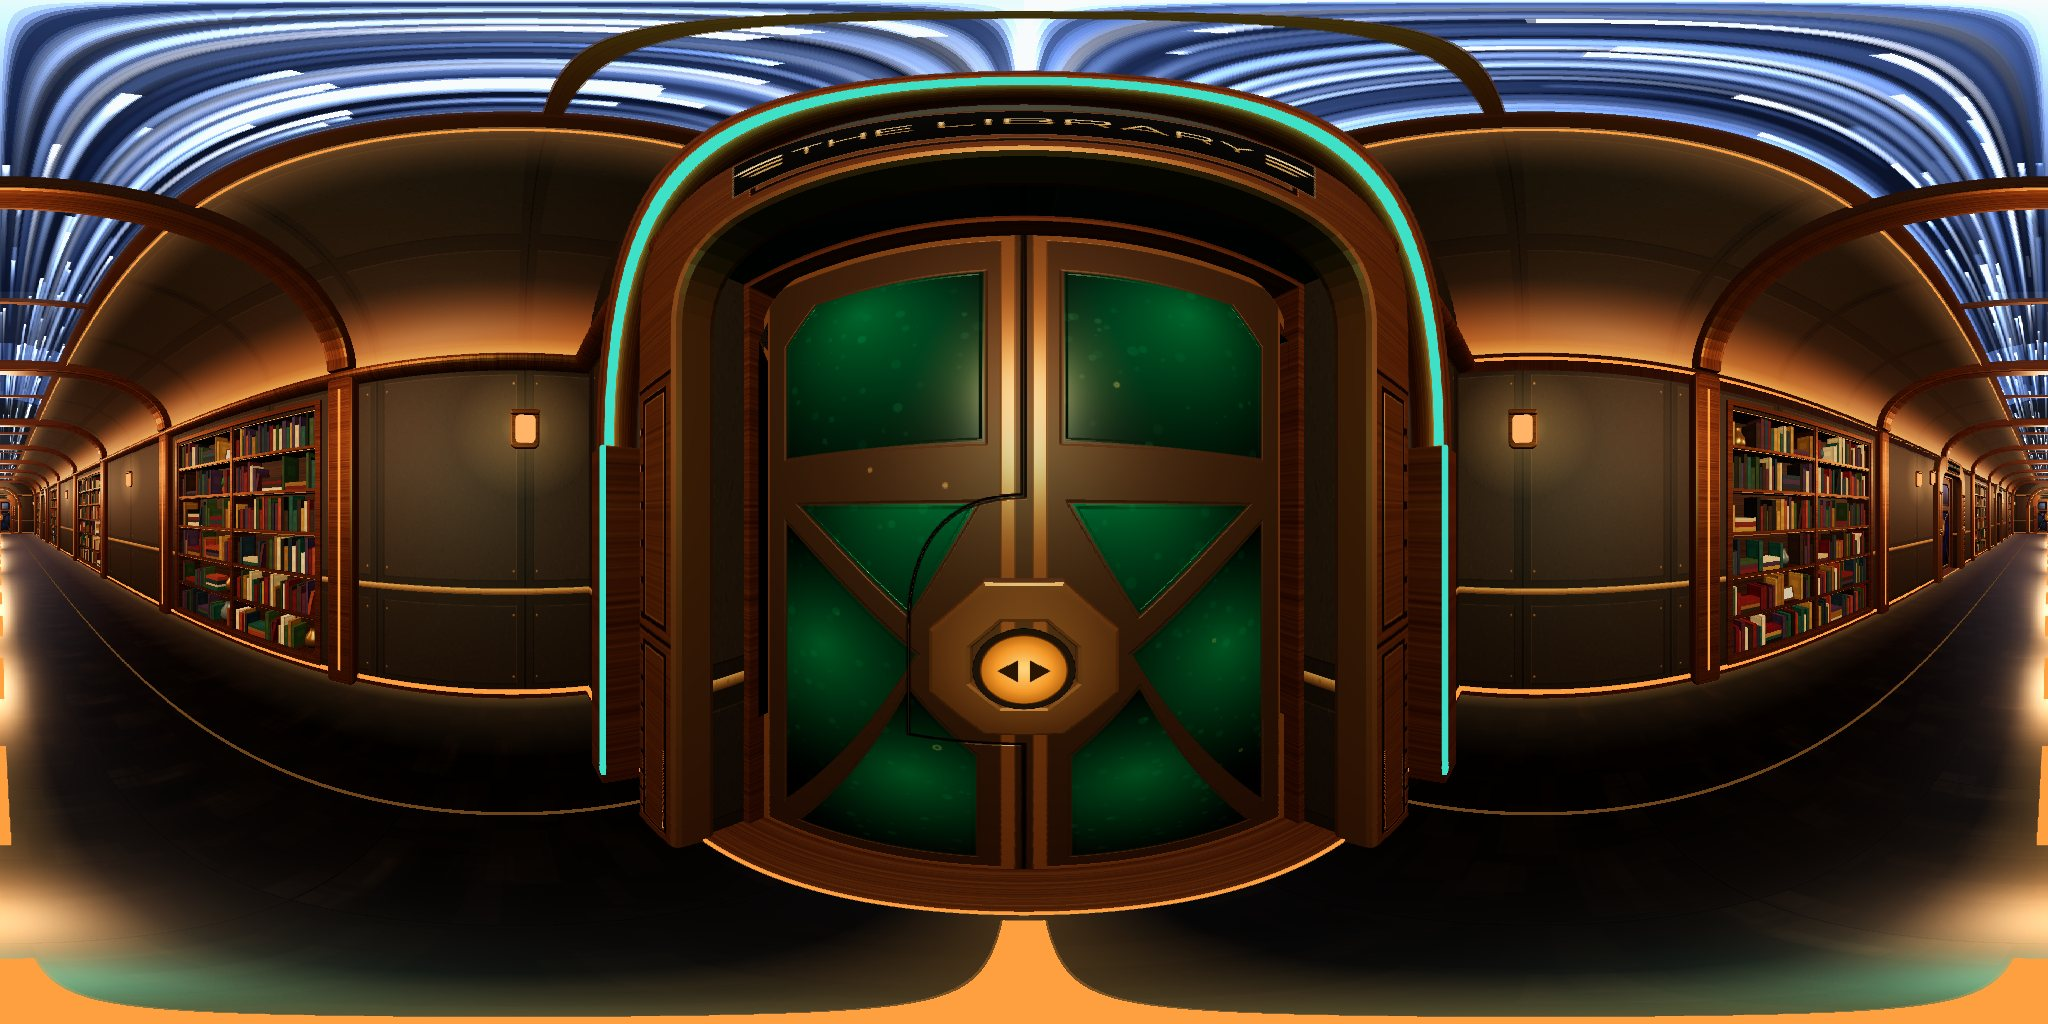
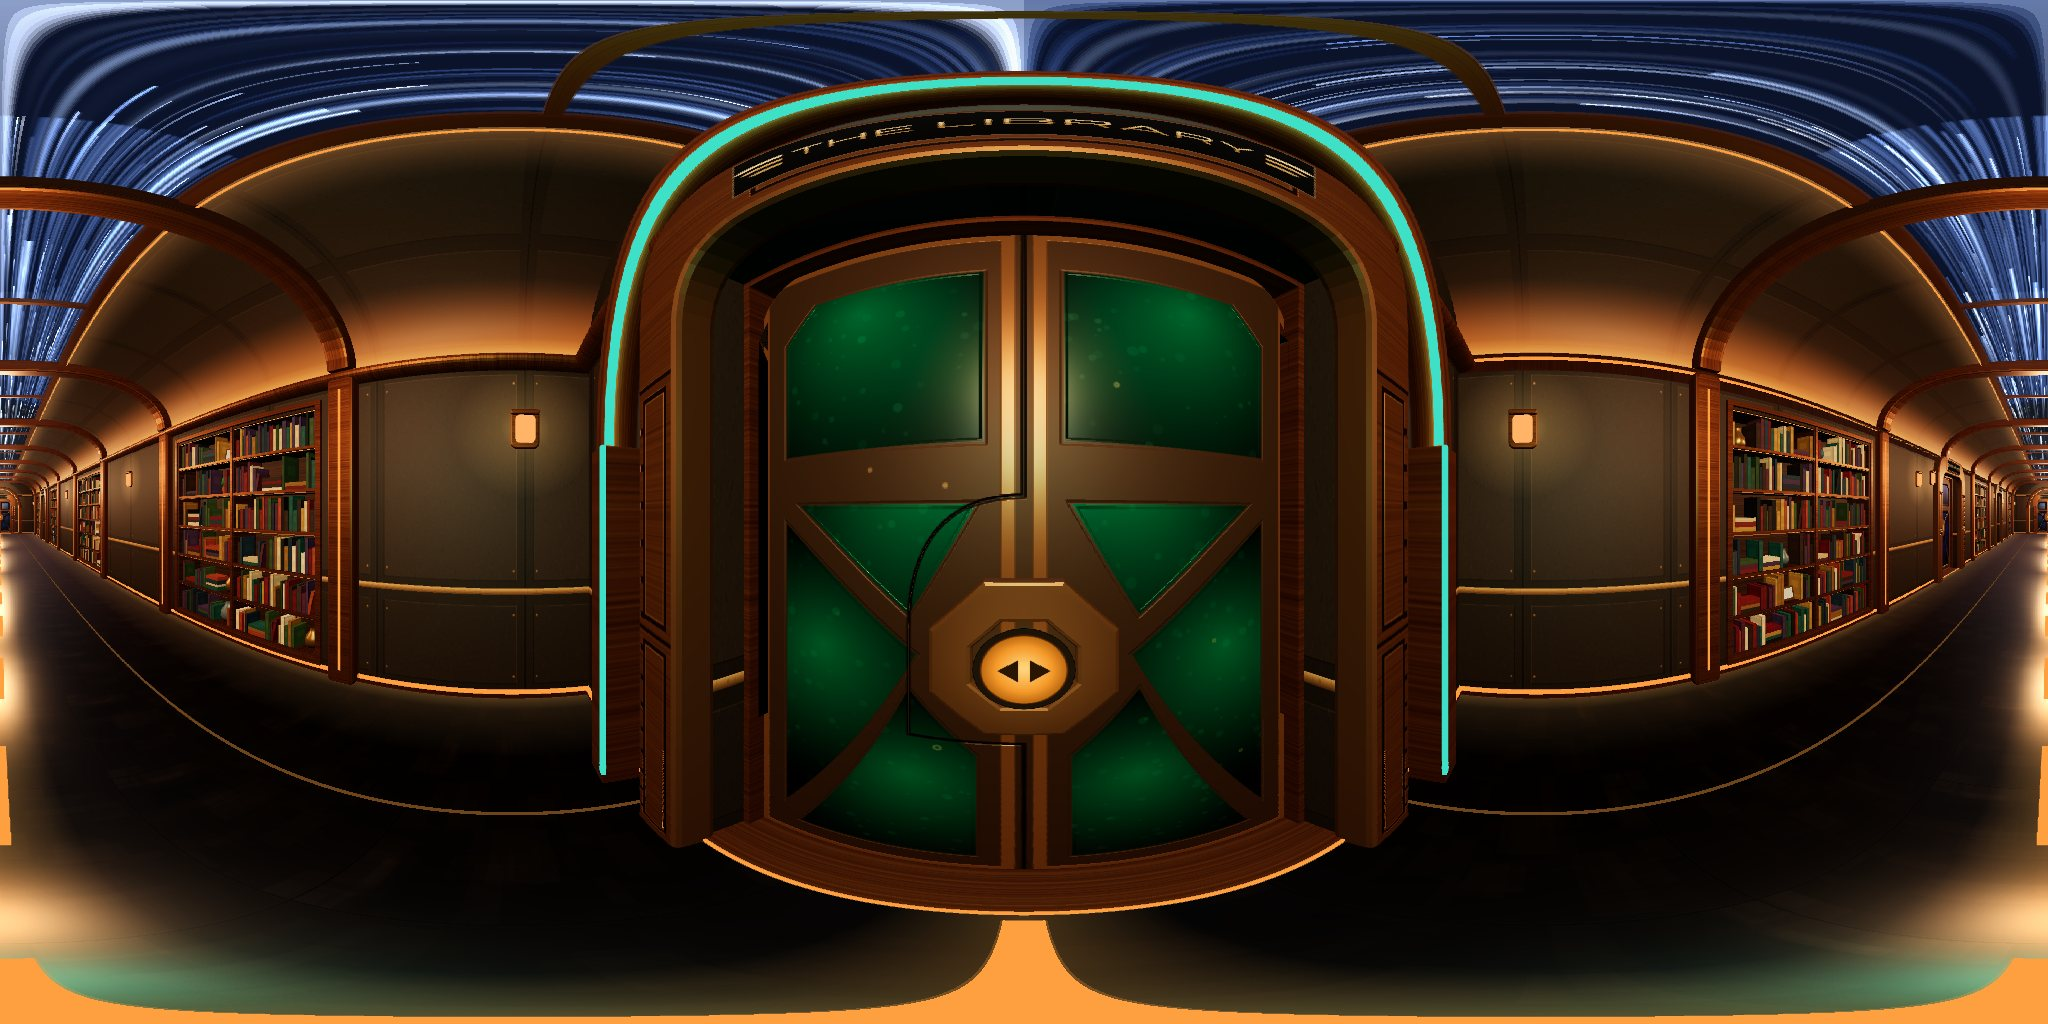
Light speed: soft round streak heads, capped widths, thin soft tunnel streaks (removes blocky glitch in the skylight)
Claude-Session: https://claude.ai/code/session_015swmRW9rk9HZt8JyLRwsXT

Changed region(s): [[0.0, 0.0, 1.0, 0.4375]]

diff --git a/hyperspace.js b/hyperspace.js
@@ -21,7 +21,7 @@
     for (var i = 0; i < N; i++) {
       var ang = (arc[0] + r() * (arc[1] - arc[0])) * Math.PI / 180, rad = (o.minR || 7) + Math.pow(r(), 1.5) * ((o.maxR || 187) - (o.minR || 7));
       var x = Math.sin(ang) * rad + cx0, y = Math.cos(ang) * rad + cy0, z = (r() - 0.5) * SPAN;
-      var len = 30 + r() * 160, wid = (0.15 + r() * 0.25 + rad * 0.012) * (o.width || 1), spd = 260 + r() * 340, hue = r();
+      var len = 30 + r() * 160, wid = (0.15 + r() * 0.25 + Math.min(rad * 0.012, 0.5)) * (o.width || 1), spd = 260 + r() * 340, hue = r();
       var c = hue < 0.7 ? [0.75, 0.85, 1.0] : hue < 0.9 ? [1, 1, 1] : [0.55, 0.7, 1.0], br = (0.5 + r() * 0.8) * (o.bright || 1);
       [[0, -1], [0, 1], [1, -1], [1, 1]].forEach(function (k, j) {
         var q = i * 4 + j; base.set([x, y, z], q * 3); corner.set(k, q * 2); info.set([len, wid, spd], q * 3); col.set([c[0] * br, c[1] * br, c[2] * br], q * 3);
@@ -39,7 +39,8 @@
         ' vec3 side = normalize(cross(ax, cameraPosition - wb));',
         ' vec3 p = wb + ax * (uFwd * aCorner.x * aInfo.x) + side * aCorner.y * aInfo.y;',      // head leads aft, tail trails toward the bow
         ' vC = aCorner; vCol = aCol; gl_Position = projectionMatrix * viewMatrix * vec4(p, 1.0); }'].join('\n'),
-      fragmentShader: 'varying vec2 vC; varying vec3 vCol; void main(){ float a = pow(1.0 - vC.x, 2.2) * (1.0 - vC.y * vC.y); a += smoothstep(0.06, 0.0, vC.x) * 1.5 * (1.0 - abs(vC.y)); gl_FragColor = vec4(vCol * a, 1.0); }' });
+      // soft round head + tapered body: the old head was a flat full-width bar, so wide far streaks showed as hard-edged blocks (user video, Nov 24)
+      fragmentShader: 'varying vec2 vC; varying vec3 vCol; void main(){ float y2 = vC.y * vC.y; float a = pow(1.0 - vC.x, 2.2) * smoothstep(0.0, 0.05, vC.x) * (1.0 - y2) * (1.0 - y2); a += 1.4 * pow(max(0.0, 1.0 - length(vec2(vC.x * 14.0, vC.y))), 2.0); gl_FragColor = vec4(vCol * a, 1.0); }' });
     var streaks = new THREE.Mesh(g, sm); streaks.frustumCulled = false; streaks.renderOrder = -9; root.add(streaks);
 
     // the tunnel: faint streaked walls far out, scrolling aft
@@ -47,9 +48,11 @@
     for (var k = 0; k < 420; k++) {
       var u = r() * 512, v = r() * 512, L = 60 + r() * 380, a = 0.12 + r() * 0.5, gr = x2.createLinearGradient(0, v, 0, v + L);
       gr.addColorStop(0, 'rgba(120,160,255,0)'); gr.addColorStop(1, 'rgba(180,210,255,' + a + ')');
-      var wpx = 1.5 + r() * 4.5; x2.fillStyle = gr; x2.fillRect(u, v, wpx, L); if (v + L > 512) x2.fillRect(u, v - 512, wpx, L);
+      var wpx = 0.6 + r() * 1.4; x2.fillStyle = gr;                      // thin, soft-sided (wide hard rects read as blocks overhead)
+      [[2.2, 0.25], [1.4, 0.45], [1, 1]].forEach(function (q) { x2.globalAlpha = q[1]; var ww = wpx * q[0], uu = u - (ww - wpx) / 2; x2.fillRect(uu, v, ww, L); if (v + L > 512) x2.fillRect(uu, v - 512, ww, L); });
+      x2.globalAlpha = 1;
     }
-    var tt = new THREE.CanvasTexture(c); tt.wrapS = tt.wrapT = THREE.RepeatWrapping; tt.repeat.set(3, 1.5);
+    var tt = new THREE.CanvasTexture(c); tt.wrapS = tt.wrapT = THREE.RepeatWrapping; tt.repeat.set(6, 1.5); tt.anisotropy = 4;
     var tun = new THREE.Mesh(new THREE.CylinderGeometry(260, 260, 1400, 48, 1, true), new THREE.MeshBasicMaterial({ map: tt, color: 0x9fc0ff, transparent: true, opacity: o.tunnel == null ? 0.85 : o.tunnel, blending: THREE.AdditiveBlending, depthWrite: false, side: THREE.BackSide, fog: false, toneMapped: false }));
     tun.rotation.x = fwd * Math.PI / 2; tun.renderOrder = -10; root.add(tun);   // texture v runs toward the bow; the bright end of each streak leads aft
     var haze = new THREE.Mesh(new THREE.CylinderGeometry(250, 250, 1400, 32, 1, true), new THREE.MeshBasicMaterial({ color: 0x0a1630, side: THREE.BackSide, fog: false, depthWrite: false }));

diff --git a/lounge.html b/lounge.html
@@ -15,13 +15,13 @@
   <meta property="og:image:height" content="630">
   <meta property="og:image:alt" content="The bronze SS Wayfarer in orbit above a sunlit planet.">
   <meta name="twitter:card" content="summary_large_image">
-  <script src="textures.js?v=20261124d"></script>
+  <script src="textures.js?v=20261124e"></script>
   <script src="https://aframe.io/releases/1.5.0/aframe.min.js"></script>
-  <script src="mobile.js?v=20261124d"></script>
-  <script src="door.js?v=20261124d"></script>
-  <script src="props.js?v=20261124d"></script>
-  <script src="hyperspace.js?v=20261124d"></script>
-  <script src="cats.js?v=20261124d"></script>
+  <script src="mobile.js?v=20261124e"></script>
+  <script src="door.js?v=20261124e"></script>
+  <script src="props.js?v=20261124e"></script>
+  <script src="hyperspace.js?v=20261124e"></script>
+  <script src="cats.js?v=20261124e"></script>
   <style>
     * { margin: 0; padding: 0; box-sizing: border-box; }
     body { overflow: hidden; background: #000; }

diff --git a/library.html b/library.html
@@ -18,13 +18,13 @@
   <meta name="theme-color" content="#000208">
   <meta name="apple-mobile-web-app-capable" content="yes">
   <meta name="mobile-web-app-capable" content="yes">
-  <script src="textures.js?v=20261124d"></script>
+  <script src="textures.js?v=20261124e"></script>
   <script src="https://aframe.io/releases/1.5.0/aframe.min.js"></script>
-  <script src="brain.js?v=20261124d"></script>
-  <script src="mobile.js?v=20261124d"></script>
-  <script src="door.js?v=20261124d"></script>
-  <script src="props.js?v=20261124d"></script>
-  <script src="hyperspace.js?v=20261124d"></script>
+  <script src="brain.js?v=20261124e"></script>
+  <script src="mobile.js?v=20261124e"></script>
+  <script src="door.js?v=20261124e"></script>
+  <script src="props.js?v=20261124e"></script>
+  <script src="hyperspace.js?v=20261124e"></script>
   <style>
     * { margin: 0; padding: 0; box-sizing: border-box; }
     body { overflow: hidden; background: #000; }

diff --git a/index.html b/index.html
@@ -15,11 +15,11 @@
   <meta property="og:image:height" content="630">
   <meta property="og:image:alt" content="The bronze SS Wayfarer in orbit above a sunlit planet.">
   <meta name="twitter:card" content="summary_large_image">
-  <script src="textures.js?v=20261124d"></script>
+  <script src="textures.js?v=20261124e"></script>
   <script src="https://aframe.io/releases/1.5.0/aframe.min.js"></script>
-  <script src="mobile.js?v=20261124d"></script>
-  <script src="door.js?v=20261124d"></script>
-  <script src="hyperspace.js?v=20261124d"></script>
+  <script src="mobile.js?v=20261124e"></script>
+  <script src="door.js?v=20261124e"></script>
+  <script src="hyperspace.js?v=20261124e"></script>
   <style>
     * { margin: 0; padding: 0; box-sizing: border-box; }
     body { overflow: hidden; background: #000; }

diff --git a/holodeck.html b/holodeck.html
@@ -26,12 +26,12 @@
     g.beginPath(); g.moveTo(0,0); g.lineTo(0,128); g.stroke();
     window.GRID_TEX = gc.toDataURL();
   </script>
-  <script src="textures.js?v=20261124d"></script>
+  <script src="textures.js?v=20261124e"></script>
   <script src="https://aframe.io/releases/1.5.0/aframe.min.js"></script>
-  <script src="mobile.js?v=20261124d"></script>
-  <script src="door.js?v=20261124d"></script>
-  <script src="props.js?v=20261124d"></script>
-  <script src="stargarden.js?v=20261124d"></script>
+  <script src="mobile.js?v=20261124e"></script>
+  <script src="door.js?v=20261124e"></script>
+  <script src="props.js?v=20261124e"></script>
+  <script src="stargarden.js?v=20261124e"></script>
   <style>
     * { margin:0; padding:0; box-sizing:border-box; }
     body { overflow:hidden; background:#000; }

diff --git a/bridge.html b/bridge.html
@@ -16,10 +16,10 @@
   <meta property="og:image:alt" content="The bronze SS Wayfarer in orbit above a sunlit planet.">
   <meta name="twitter:card" content="summary_large_image">
   <script src="https://aframe.io/releases/1.5.0/aframe.min.js"></script>
-  <script src="mobile.js?v=20261124d"></script>
-  <script src="door.js?v=20261124d"></script>
-  <script src="hyperspace.js?v=20261124d"></script>
-  <script src="lcars.js?v=20261124d"></script>
+  <script src="mobile.js?v=20261124e"></script>
+  <script src="door.js?v=20261124e"></script>
+  <script src="hyperspace.js?v=20261124e"></script>
+  <script src="lcars.js?v=20261124e"></script>
   <style>
     * { margin: 0; padding: 0; box-sizing: border-box; }
     body { overflow: hidden; background: #000; }

diff --git a/media.html b/media.html
@@ -16,9 +16,9 @@
   <meta property="og:image:alt" content="The bronze SS Wayfarer in orbit above a sunlit planet.">
   <meta name="twitter:card" content="summary_large_image">
   <script src="https://aframe.io/releases/1.5.0/aframe.min.js"></script>
-  <script src="mobile.js?v=20261124d"></script>
-  <script src="door.js?v=20261124d"></script>
-  <script src="props.js?v=20261124d"></script>
+  <script src="mobile.js?v=20261124e"></script>
+  <script src="door.js?v=20261124e"></script>
+  <script src="props.js?v=20261124e"></script>
   <style>
     * { margin: 0; padding: 0; box-sizing: border-box; }
     body { overflow: hidden; background: #000; }

diff --git a/hangar.html b/hangar.html
@@ -9,7 +9,7 @@
   <link rel="icon" href="/aspentrail/icons/favicon.ico">
   <script src="https://cdnjs.cloudflare.com/ajax/libs/three.js/r128/three.min.js"></script>
   <script src="https://cdn.jsdelivr.net/npm/three@0.128.0/examples/js/loaders/GLTFLoader.js"></script>
-  <script src="shipskin.js?v=20261124d"></script>
+  <script src="shipskin.js?v=20261124e"></script>
   <script src="https://cdn.jsdelivr.net/npm/three@0.128.0/examples/js/controls/OrbitControls.js"></script>
   <style>
     * { margin: 0; padding: 0; box-sizing: border-box; }

diff --git a/minigame.html b/minigame.html
@@ -17,7 +17,7 @@
   <meta name="twitter:card" content="summary_large_image">
   <script src="https://cdnjs.cloudflare.com/ajax/libs/three.js/r128/three.min.js"></script>
   <script src="https://cdn.jsdelivr.net/npm/three@0.128.0/examples/js/loaders/GLTFLoader.js"></script>
-  <script src="shipskin.js?v=20261124d"></script>
+  <script src="shipskin.js?v=20261124e"></script>
   <style>
     * { margin: 0; padding: 0; box-sizing: border-box; }
     body { overflow: hidden; background: #000; font-family: 'Courier New', monospace; }

diff --git a/CLAUDE.md b/CLAUDE.md
@@ -56,7 +56,7 @@ Rules drawn from them:
 - A-Frame 1.5.0 from the aframe.io CDN, no build step, plain HTML/JS
 - GitHub Pages deploys from branch `claude/hello-mssbj4` (site: spawnshark.github.io/aspentrail).
   Session work happens on a `claude/...` branch; it is live only after it reaches `claude/hello-mssbj4`.
-- Local scripts are loaded with `?v=<date+letter>` (Safari cached old door.js/mobile.js) — bump it in every page on each push (now 20261124d).
+- Local scripts are loaded with `?v=<date+letter>` (Safari cached old door.js/mobile.js) — bump it in every page on each push (now 20261124e).
 - Shared scripts: `textures.js` (procedural textures), `mobile.js` (touch controls: ONE frosted-glass bottom bar —
   iOS glassmorphism, Safari-bar proportions, white YouTube-style line icons; movement pad left, look stick right, Gyro +
   Level in the middle; gyro off by default and the Gyro tap calls DeviceOrientationEvent.requestPermission so only
@@ -106,7 +106,9 @@ Rules drawn from them:
 - **Light speed is shared code: `hyperspace.js`** (`WAYFARER.hyperspace(root, {fwd, arc, minR, center, core})`).
   Corridor: fwd +1, arc ±70°, minR 16, tunnel 0.6, width 0.55. Bridge: fwd −1, full circle, minR 14, core glow.
   Library dome: fwd +1 (its door faces the bow), arc ±75°, same settings as the corridor. Streaks are DoubleSide
-  billboards (seen from below they face away — that once hid them entirely in the corridor).
+  billboards (seen from below they face away — that once hid them entirely in the corridor). Streak heads are soft round
+  caps and widths are capped; the backdrop tunnel texture uses thin soft-sided streaks (wide hard rects showed as flickering
+  blocks through the skylight on iPhone — user video Nov 24).
 - **Library ceiling** restyled Nov 24 to match: glass dome under 12 bevelled bronze ribs + mid ring + glowing crown,
   big amber light ring at the dome base, amber cove at the wall top, dark ceiling panels. Library WALLS restyled Nov 24 too:
   walnut panels + bronze rails (procedural `wallTexture`), bevelled bronze ribs with lamps, polished dark deck ring,
